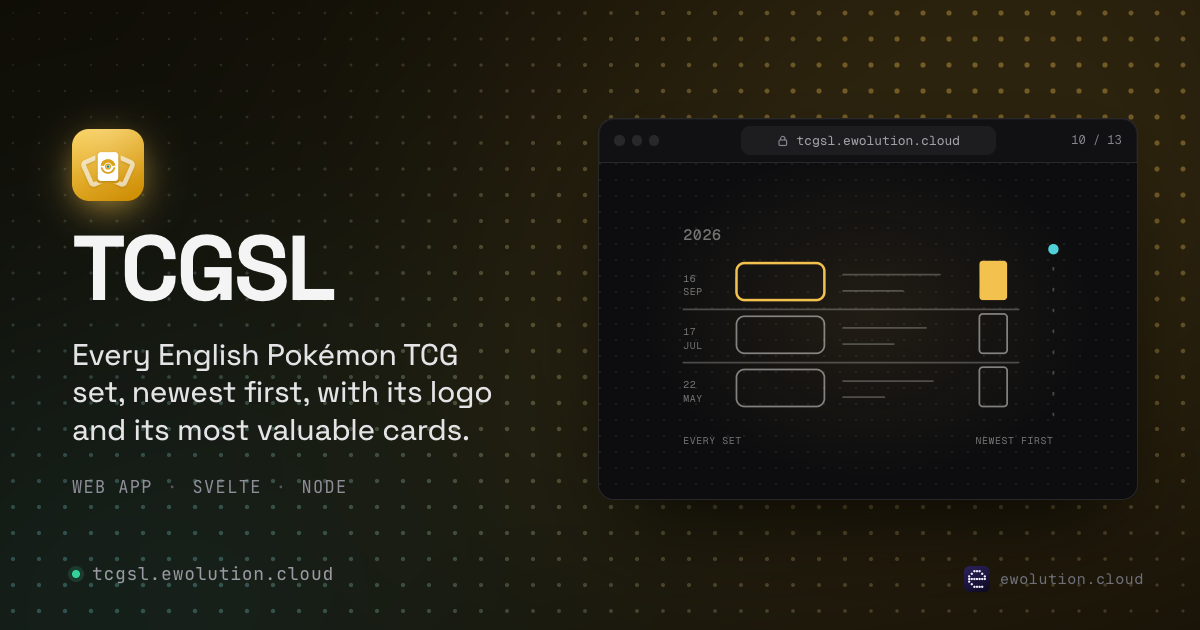
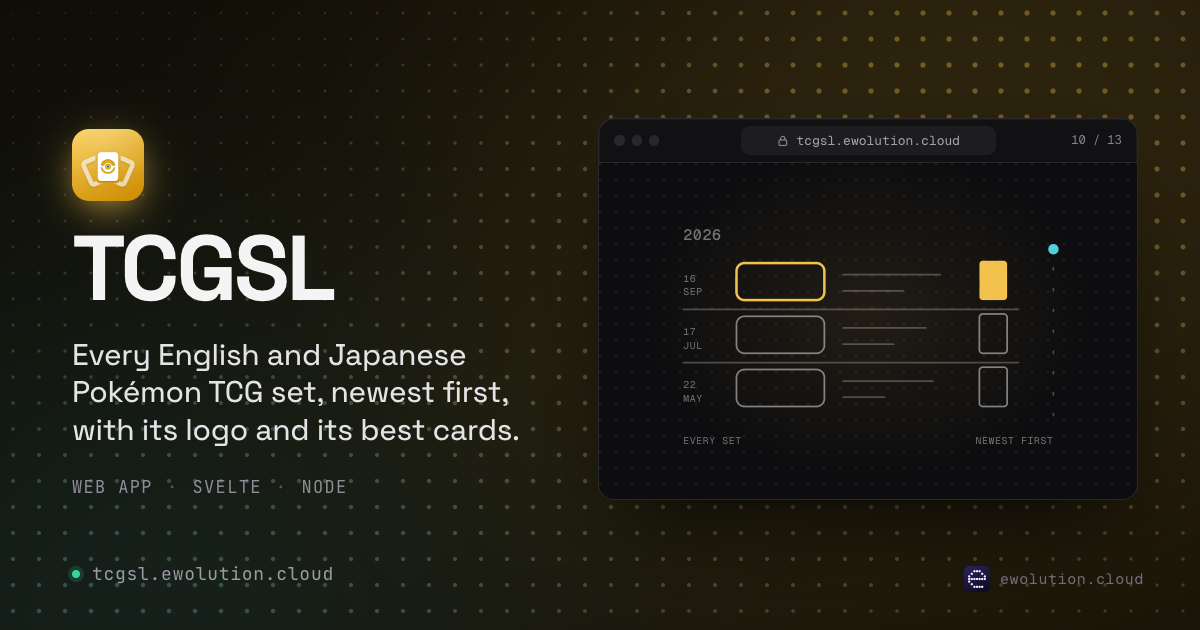
chore: the link preview says English and Japanese (?v=4)

Changed region(s): [[0.0617, 0.5429, 0.4317, 0.7238]]

diff --git a/index.html b/index.html
@@ -19,7 +19,7 @@
     <meta property="og:title" content="TCGSL · TCG Setlist" />
     <meta property="og:description" content="Every Pokémon TCG set, English and Japanese, newest first, with its logo, release date and best cards." />
     <meta property="og:url" content="https://tcgsl.ewolution.cloud/" />
-    <meta property="og:image" content="https://tcgsl.ewolution.cloud/og.png?v=3" />
+    <meta property="og:image" content="https://tcgsl.ewolution.cloud/og.png?v=4" />
     <meta property="og:image:width" content="1200" />
     <meta property="og:image:height" content="630" />
     <meta property="og:image:alt" content="TCGSL: every Pokémon TCG set, newest first." />
